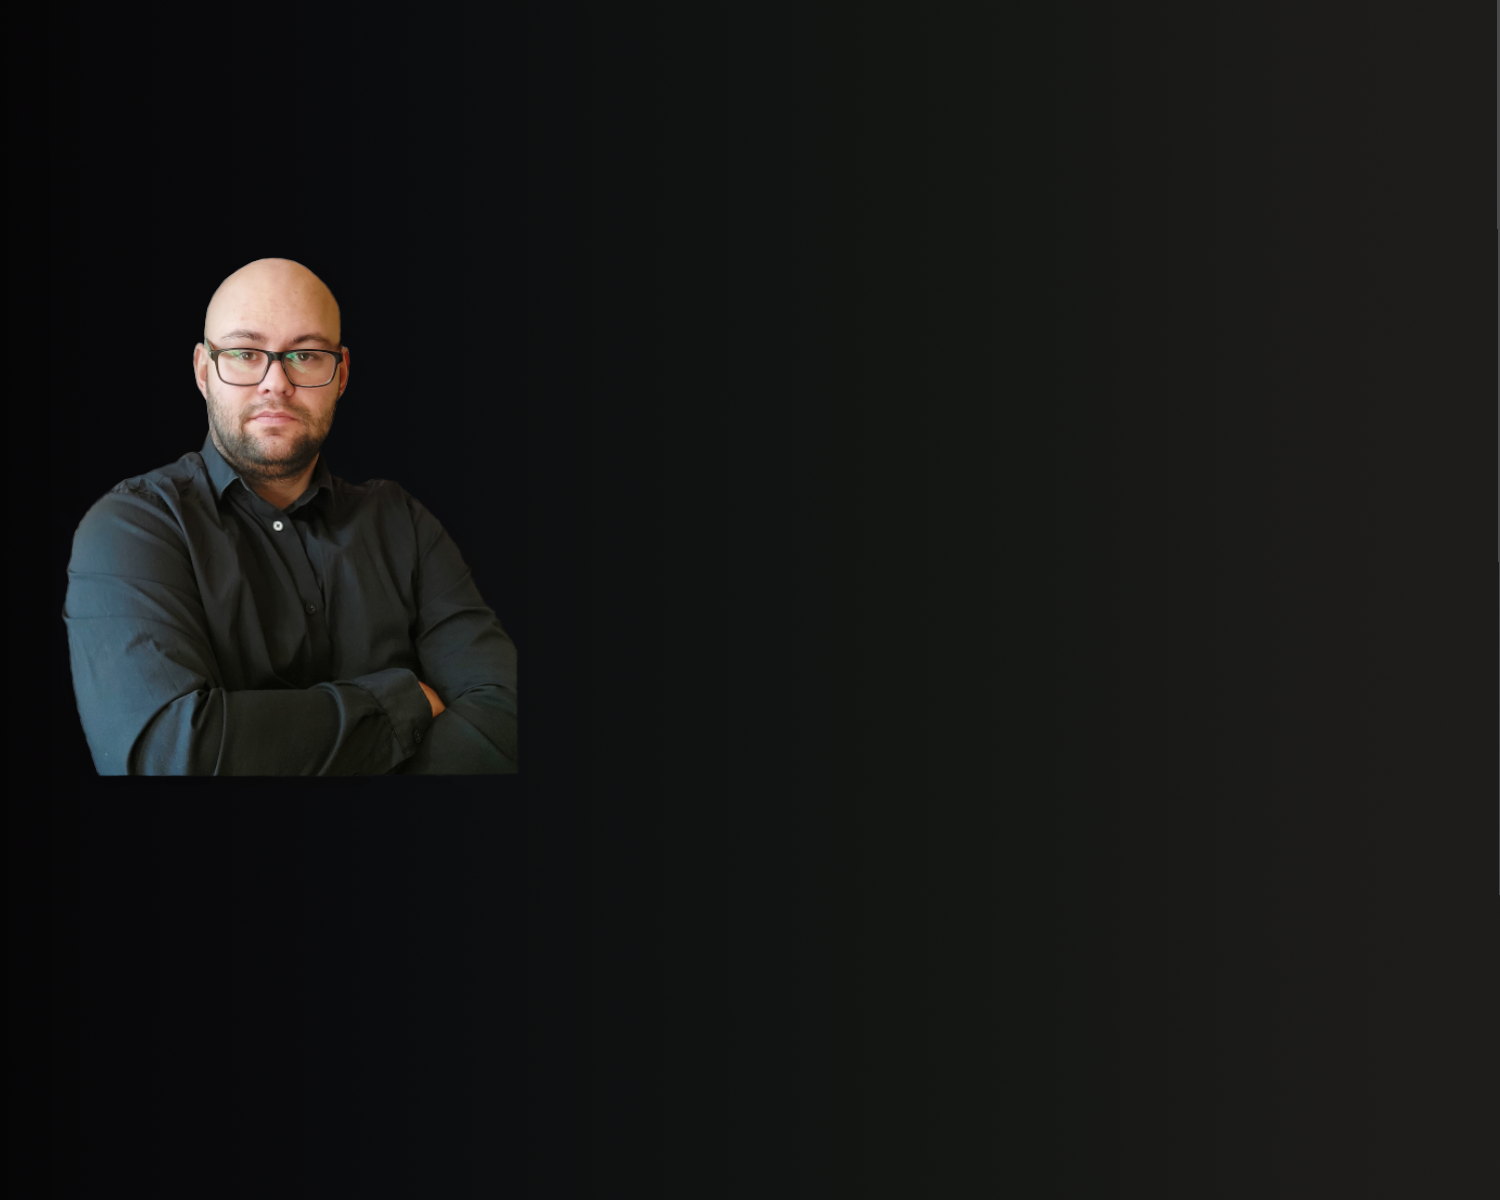
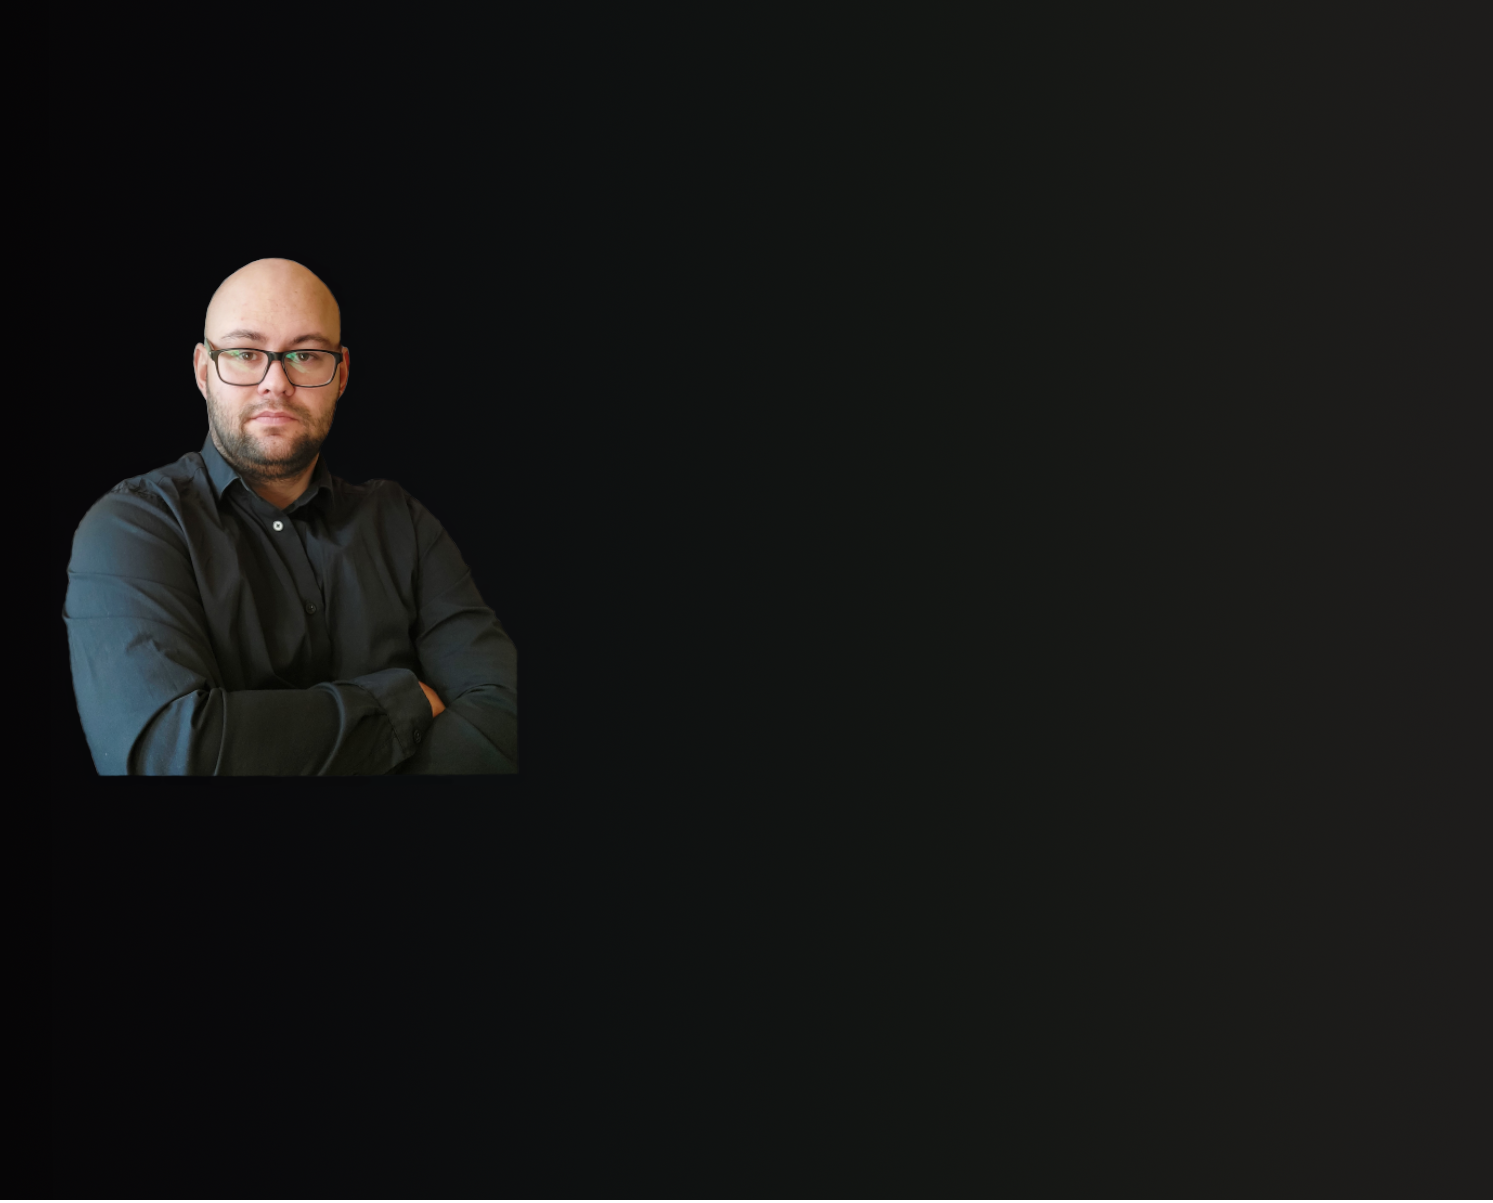
background improved

diff --git a/style.css b/style.css
@@ -338,14 +338,14 @@ body {
   height: 1200px;
   border-bottom: 2px solid var(--border-bottom);
   background-image: url('./assets/portfolio.png');
+  background-size: cover;
 }
 
 .content-left {
   display: Flex;
   margin-top: 150px;
   border-radius: 3%;
-  width: 35%;
-
+  width: 50%;
   background-position: center;
   background-size: cover;
   height: 50%;
@@ -372,8 +372,9 @@ body {
 }
 
 .content-description {
+  margin: 20px 80px;
   display: flex;
-  padding: 10px 30px;
+  padding: 10px 40px;
   font-size: 24px;
   color: white;
 }
@@ -435,7 +436,7 @@ body {
 
 .scroll-description-content-left {
   padding: 10px 50px;
-
+  margin: 20px 80px;
   width: 50%;
   height: 800px;
   border-right: 2px solid var(--scroll-border-color-right);
